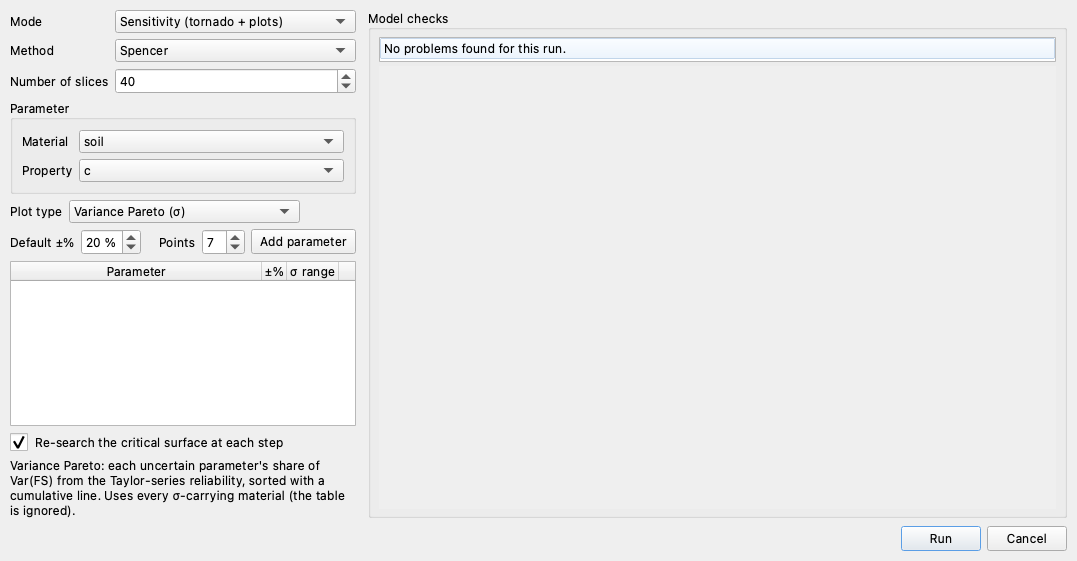
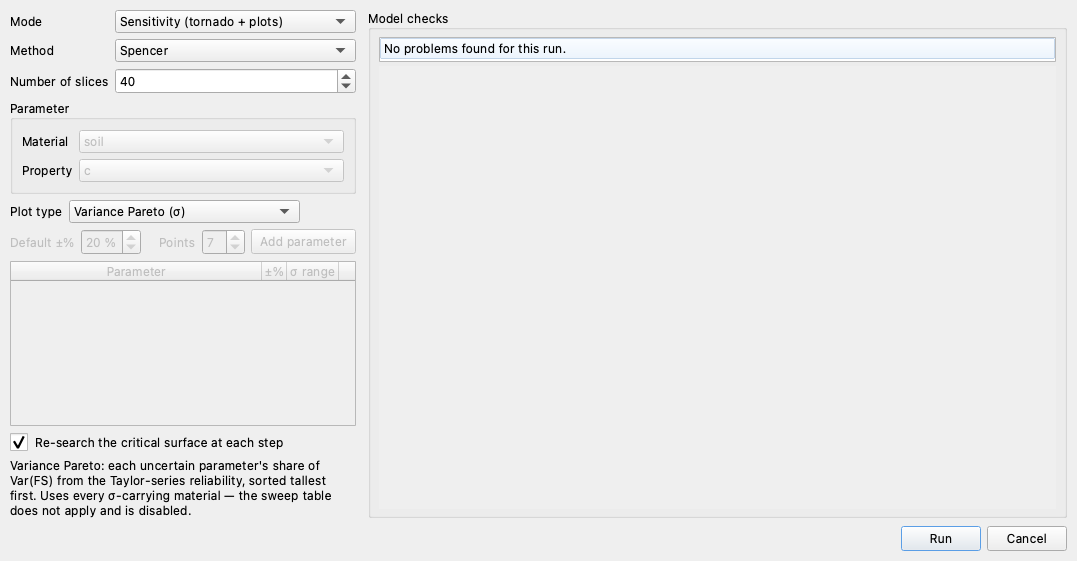
ui(parametric): the sweep controls gray out when the plot type ignores them
Owner's call, generalized by an audit of every mode and plot type: the
sigma-based plots (variance Pareto, MC rank correlation) never read the
sweep table, so the picker, Add parameter, the table and the range controls
all disable on selection; the scaled bars read only the parameter list
(fixed ±1% central difference), so the ±% and Points controls gray while
the table stays live; tornado and spider keep everything. Per-row spinners
follow the gate, rows added mid-selection respect it, and the notes state
what the dimming shows. The Reliability dialog already gated its engines
correctly. Pinned in docs_links (variance disables, tornado re-enables),
dialog driven through all five states live; the tutorial's paragraph and
screenshot show the grayed table, and the gamma-sign paragraph reads
plainly per the owner's flag.

Claude-Session: https://claude.ai/code/session_01XjjT2aBxw8gY7EFdpoUcpj

diff --git a/studio/dialogs.py b/studio/dialogs.py
@@ -1723,7 +1723,8 @@ class SensitivityDialog(QDialog):
         v.addLayout(pt)
 
         controls = QHBoxLayout()
-        controls.addWidget(QLabel("Default ±%"))
+        self._pct_label = QLabel("Default ±%")
+        controls.addWidget(self._pct_label)
         self.pct = QDoubleSpinBox()
         self.pct.setRange(1.0, 99.0)
         self.pct.setDecimals(0)
@@ -1731,7 +1732,8 @@ class SensitivityDialog(QDialog):
         self.pct.setValue(float(defaults.get("default_pct", 20.0)))
         controls.addWidget(self.pct)
         controls.addSpacing(12)
-        controls.addWidget(QLabel("Points"))
+        self._points_label = QLabel("Points")
+        controls.addWidget(self._points_label)
         self.n_points = QSpinBox()
         self.n_points.setRange(3, 31)
         self.n_points.setValue(int(defaults.get("n", 7)))
@@ -1883,7 +1885,23 @@ class SensitivityDialog(QDialog):
             w.setVisible(scaled)
         for w in (self._mc_label, self.mc_samples):
             w.setVisible(rank)
-        if self.mode.currentData() != "sensitivity":
+        # Gate the sweep controls by what the selected plot type actually reads:
+        # the sigma-based plots (variance, rank) never read the table, and the
+        # scaled bars read only its parameter list (the derivative is a fixed
+        # ±1% central difference), so the ±% ranges and Points gray out with
+        # them. Anything a selection ignores is disabled, not left live.
+        mode_sens = self.mode.currentData() == "sensitivity"
+        table_used = (not mode_sens) or pt not in ("variance", "rank")
+        ranges_used = (not mode_sens) or pt in ("tornado", "spider")
+        for w in (self.material, self.prop, self.add_btn, self.table):
+            w.setEnabled(table_used)
+        for w in (self._pct_label, self.pct, self._points_label, self.n_points):
+            w.setEnabled(ranges_used)
+        for r in self._rows:
+            r["sigma_btn"].setEnabled(ranges_used and r.get("sigma") is not None)
+            r["pct_spin"].setEnabled(ranges_used
+                                     and not r["sigma_btn"].isChecked())
+        if not mode_sens:
             return
         q = self._out_short
         notes = {
@@ -1891,16 +1909,19 @@ class SensitivityDialog(QDialog):
                         f"(or ±σ); bars show the {q} swing, widest on top. Double-click "
                         f"a bar for that parameter's curve."),
             "scaled": ("Scaled-sensitivity bars: one bar per table parameter, height = "
-                       "the chosen scaling of ∂F/∂p (central difference at ±1%), color = "
-                       "sign. Elasticity is unitless and comparable across parameters."),
+                       "the chosen scaling of ∂F/∂p (central difference at a fixed ±1%, "
+                       "so the ±% ranges and Points do not apply), color = sign. "
+                       "Elasticity is unitless and comparable across parameters."),
             "spider": (f"Spider: {q} vs each table parameter over its ±% range, on one "
                        f"normalized axis (% change from base), with a base-case marker."),
             "variance": ("Variance Pareto: each uncertain parameter's share of Var(FS) "
-                         "from the Taylor-series reliability, sorted with a cumulative "
-                         "line. Uses every σ-carrying material (the table is ignored)."),
+                         "from the Taylor-series reliability, sorted tallest first. "
+                         "Uses every σ-carrying material — the sweep table does not "
+                         "apply and is disabled."),
             "rank": ("Monte Carlo rank correlation: Spearman correlation of each sampled "
-                     "input with FS — a GLOBAL measure. Uses every σ-carrying material "
-                     "(the table is ignored); can take a while at high sample counts."),
+                     "input with FS — a GLOBAL measure. Uses every σ-carrying material — "
+                     "the sweep table does not apply and is disabled. Can take a while "
+                     "at high sample counts."),
         }
         self.note.setText(notes.get(pt, ""))
 
@@ -1913,6 +1934,7 @@ class SensitivityDialog(QDialog):
         if any(r["ref"] == ref for r in self._rows):
             return                                   # already added
         self._add_row(e, pct=self.pct.value(), use_sigma=False)
+        self._on_plot_type_changed()
 
     def _add_row(self, entry, pct, use_sigma):
         row = self.table.rowCount()

diff --git a/test/docs_links_check.py b/test/docs_links_check.py
@@ -1316,6 +1316,20 @@ def _lem11_reliability_labels():
         fails.append(f"the Parametric dialog offers no {LEM11_VARIANCE_PLOT!r} "
                      f"plot type on a model carrying sigmas; Tutorial LEM-11 "
                      f"tells the reader to select it. It offers {plots}")
+    # The sigma-based plots ignore the sweep table, and the page says the
+    # dialog shows that by graying it out — so it must actually gray out, and
+    # come back when a table-driven plot type is selected again.
+    _v = sens.plot_type.findData("variance")
+    if _v >= 0:
+        sens.plot_type.setCurrentIndex(_v)
+        if sens.add_btn.isEnabled() or sens.table.isEnabled():
+            fails.append("on the variance Pareto the sweep table stays live; "
+                         "Tutorial LEM-11 says it grays out because the plot "
+                         "ignores it")
+        sens.plot_type.setCurrentIndex(sens.plot_type.findData("tornado"))
+        if not (sens.add_btn.isEnabled() and sens.table.isEnabled()):
+            fails.append("back on the tornado the sweep table stays disabled; "
+                         "the gating must follow the plot type both ways")
     sens.deleteLater()
     return fails
 

diff --git a/docs/tutorials/lem11_reliability.md b/docs/tutorials/lem11_reliability.md
@@ -479,12 +479,12 @@ contribute equally. Knowing the split is worth money: it says which
 parameter another round of testing should chase.
 The **Parametric…** dialog computes the split: set **Method** to `Spencer` and
 **Plot type** to `Variance Pareto (σ)`, which is offered only for a model that
-carries standard deviations. The sweep table below it stays empty. Its controls — **Add parameter**, a
-**±%** range per row or the row's **σ range** preset, and the number of
-sweep **Points** — feed the dialog's tornado and spider sweeps
-([Parametric Studies](../parametric/sensitivity.md) covers those); the two
-σ-based plot types read every σ-carrying material directly and ignore the
-table, as the note under it says:
+carries standard deviations. Selecting it grays out the sweep table and its
+controls — **Add parameter**, the **±%** and **σ range** columns, and the
+sweep **Points** feed the dialog's tornado and spider sweeps
+([Parametric Studies](../parametric/sensitivity.md) covers those), and the
+two σ-based plot types read every σ-carrying material directly instead, as
+the note under the table says:
 
 ![The Parametric dialog set to the variance Pareto](images/lem11_studio_parametric_variance.png)
 
@@ -512,17 +512,15 @@ Run it and the same verdict comes back:
 
 ![The Monte Carlo rank-correlation bars](images/lem11_rank.png){width=800}
 
-Cohesion at a correlation of +0.86, unit weight at −0.46 — and where the
-Pareto's bars are all positive shares, these carry a sign. Cohesion's is the
-obvious one: more strength, higher factor of safety. The unit weight's
-negative sign is the same physics the Taylor table showed when the γ row's
-F⁺ came back the *lower* of its pair. Weight is the driving force, and on
-this φ = 0 clay the resistance is all cohesion, which gains nothing from the
-extra normal stress a heavier soil presses onto the failure surface — every
-added pound drives and none of it resists, so the heavier realizations fail
-more often. In a frictional soil some of that weight would come back as
-frictional resistance and the correlation would be weaker. The cheap plot
-and the sampled one agree about what matters.
+Cohesion comes in at +0.86 and unit weight at −0.46, and unlike the
+Pareto's bars, these carry a sign. The cohesion sign is the obvious one:
+stronger clay, safer slope. The unit weight sign says a heavier slope is a
+less safe one. Weight is what drives the sliding, and in a φ = 0 clay it
+adds nothing to the resistance — the strength is all cohesion, no matter
+how hard the soil presses on the failure surface. So realizations that drew
+a heavier unit weight tended to come back with a lower factor of safety.
+The two plots agree about which parameter matters; this one also shows
+which way each parameter pushes.
 
 Three quarters of the uncertainty in the answer is therefore in one number, and
 that number is the one further site investigation would narrow. Another round of
